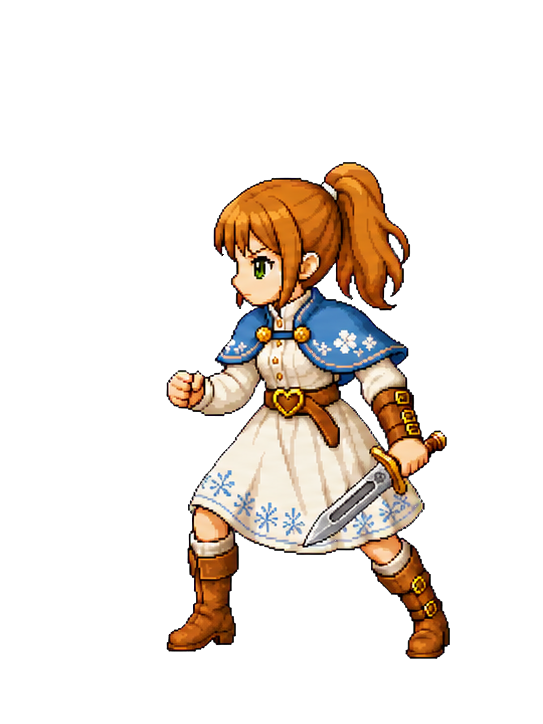
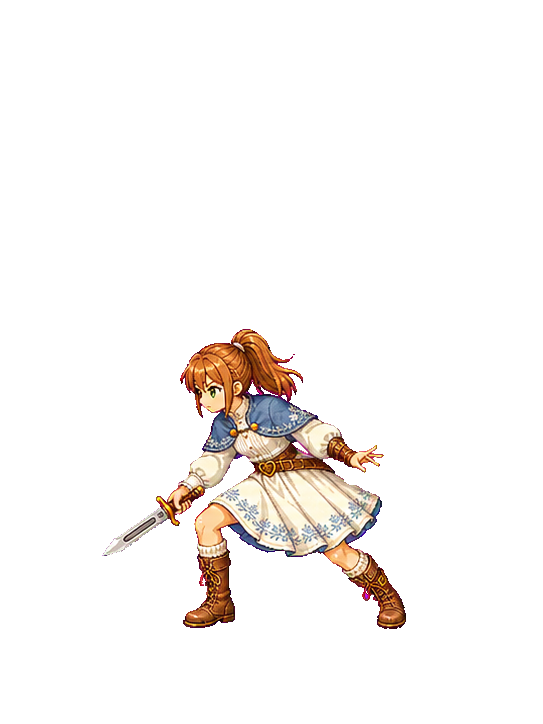
art: 整合 Marin 3.5 頭身攻擊動畫

Changed region(s): [[0.2063, 0.2127, 0.825, 0.9116], [0.1768, 0.7597, 0.2063, 0.7901]]

diff --git a/TASKS/17_戰鬥角色美術統一.md b/TASKS/17_戰鬥角色美術統一.md
@@ -1,6 +1,6 @@
 # 戰鬥角色 3.5 頭身統一與動畫補齊
 
-- Task 版本: v1.23
+- Task 版本: v1.24
 - 對應規則來源快照: N/A（John 2026-08-09 戰鬥角色美術方向定案；不對應 `build_cq2.py` 規則）
 - 狀態: 實作中（規格與產線文件已定案；角色重製、補幀與 runtime 整合待執行）
 - 規格來源: [`docs/design/戰鬥立繪規格.md`](../docs/design/戰鬥立繪規格.md)
@@ -33,7 +33,7 @@
 | 莉莉 `lily` | 162 cm | 3.5 頭身基準 | Seed、weapon、idle 4、hurt、cast | **death 1、attack 約 5**；runtime 依身高換算＋全隊 lineup 複驗 |
 | 潔絲 `jess` | 167 cm | 3.5 頭身基準 | Seed、weapon、idle 4（`0→2→3→2`） | **hurt 1、cast 1、death 1、attack 約 5**；全隊 lineup 複驗 |
 | 路德 `ludo` | 165 cm | 3.5 頭身 Seed 已驗收 | Menu Art、weapon reference、雙手持劍 Seed、idle 4（`0→1→2→1`）、hurt 1、cast 1、death 1 | **attack 重做**；全隊 lineup 複驗 |
-| 瑪琳 `marin` | 158 cm | 3.5 頭身 Seed 已驗收 | Menu Art、weapon reference、左手短刀 Seed、idle 4、hurt、cast、death | **attack 重做**；runtime 換圖與全隊 lineup 複驗 |
+| 瑪琳 `marin` | 158 cm | 3.5 頭身 Seed 已驗收 | Menu Art、weapon reference、左手短刀 Seed、idle 4、hurt、cast、death、attack 5 | hurt／cast／death runtime 換圖與全隊 lineup 複驗 |
 
 > `cast` 目前尚未接入 runtime，但仍屬角色完整交付集；整合時可先放入素材並保留未使用狀態。
 
@@ -48,7 +48,7 @@
 ### Phase 2：補齊與重製動作
 
 - [ ] **P2-1 路德全套**：idle 4 → hurt 1 → cast 1 → death 1 → attack 約 5；2026-08-12 `idle / ready_guard` 採 John 核可的分段 key pose fallback，正式循環 `0 → 1 → 2 → 1`，G4～G6 通過後已於 G7 以共用 0.5× Nearest 正規化至 543×724 並整合 `hero_ludo_idle_0..3.png`。2026-08-13 `hurt / recoil_guard` 採候選 A 劍身拉直修正版，G3／G5 通過後以相同 0.5× Nearest 對齊 Idle 的 bottom-center 與腳底線，整合為 `hero_ludo_hurt.png`。同日 `cast / two_hand_focus` 採完整左側身、閉眼、雙手伸直發射姿勢與長劍完整收鞘版本，G3／G5 通過後以相同尺度與錨點新增 `hero_ludo_cast.png`；目前 Cast 尚未接線。`death / fall_forward` 採五體投地趴伏版本，G3／G5 通過後以 0.5× Nearest 保持尺度，橫向中心與最低點對齊 Runtime 共同中心／地面線並整合為 `hero_ludo_death.png`。依 John 指示，Godot import／測試延後至 Attack 整合後一併執行。attack 尚待重做。
-- [ ] **P2-2 瑪琳全套**：idle 4 → hurt 1 → cast 1 → death 1 → attack 約 5；2026-08-11 `idle / calm_ready` 採 `0 → 1 → 2 → 1` 分段 key pose，John 手動去背的三張 `finetune` 已通過 G6；G7 已將 543×724 Alpha 四幀整合為 `hero_marin_idle_0..3.png`，腳底 `y=628`。2026-08-13 `hurt / recoil_guard` G3 採候選 1，G5 Alpha 已通過驗收（髮梢紫紅 spill 已修正且未改變 Alpha 輪廓）；同日 `cast / offhand_rear_cast` 採三分之二背面候選 1 的刀身軸線修正版，G3／G5 已通過，二值 Alpha 只重著色 195 個明顯洋紅污染像素。`death / fall_forward` 採側趴倒地候選 1，頭、軀幹與腿確實落地，短刀完整掉落於左手附近；G3／G5 已通過，Alpha 保持二值並清除輪廓洋紅污染。hurt／cast／death 尚待瑪琳全套完成後統一進入 G7；目前只剩 attack 待重做。
+- [ ] **P2-2 瑪琳全套**：idle 4 → hurt 1 → cast 1 → death 1 → attack 5；2026-08-11 `idle / calm_ready` 採 `0 → 1 → 2 → 1` 分段 key pose，John 手動去背的三張 `finetune` 已通過 G6；G7 已將 543×724 Alpha 四幀整合為 `hero_marin_idle_0..3.png`，腳底 `y=628`。2026-08-13 `hurt / recoil_guard` G3 採候選 1，G5 Alpha 已通過驗收（髮梢紫紅 spill 已修正且未改變 Alpha 輪廓）；同日 `cast / offhand_rear_cast` 採三分之二背面候選 1 的刀身軸線修正版，G3／G5 已通過，二值 Alpha 只重著色 195 個明顯洋紅污染像素。`death / fall_forward` 採側趴倒地候選 1，頭、軀幹與腿確實落地，短刀完整掉落於左手附近；G3／G5 已通過，Alpha 保持二值並清除輪廓洋紅污染。`attack / dagger_thrust` 五幀於 2026-08-13 通過 G4～G6：序列為起手 → 下沉 → 深度蓄力 → 向左突刺 → 收招，非持刀手以拇指＋四指修正；Alpha 為二值且清除洋紅背景孔洞／外緣污染。G7 採畫面右側左腳鞋底最下方三列作固定錨點，五幀置入共同 543×724 cell、錨點 `(390,628)`，完整保留突刺刀尖並整合 `hero_marin_attack_0..4.png`。hurt／cast／death 尚待統一進入 G7，因此 P2-2 暫不整項勾選。
 - [ ] **P2-3 莉莉補齊**：death 1 → attack 約 5。
 - [ ] **P2-4 潔絲補齊**：hurt 1 → cast 1 → death 1 → attack 約 5。
 
@@ -57,7 +57,7 @@
 ### Phase 3：runtime 正規化與全隊驗收
 
 - [ ] **P3-1 身高正規化**：以潔絲 `167 cm = 250px` 為基準，按 `250 × cm ÷ 167` 計算每位角色 idle 主體可見高度；runtime 程式調整由 MOD-E owner 執行或協調。
-- [ ] **P3-2 同角色狀態校正**：attack／hurt／cast 對齊該角色 idle 主體高度與腳底線；同一 strip 共用一個倍率。
+- [ ] **P3-2 同角色狀態校正**：attack／hurt／cast 對齊該角色 idle 主體高度與腳底線；同一 strip 共用一個倍率。2026-08-13 runtime 已改為 attack 全段共用首幀垂直貼底補正，保留素材內烘焙的共同腳點；其餘角色與狀態仍待全隊複驗。
 - [ ] **P3-3 五人靜態 lineup**：同地面線、實際身高、同畫面並列檢查比例、排列、武器與視覺密度。
 - [ ] **P3-4 五人 Idle GIF**：同時播放，檢查呼吸幅度、節奏、雙腳錨點、武器完整與循環。
 - [ ] **P3-5 John 最終核可**：靜態 lineup 與 GIF 都通過後，才進入 G7。

diff --git a/docs/pipeline/battle_art/prompts/descriptions/marin.md b/docs/pipeline/battle_art/prompts/descriptions/marin.md
@@ -4,13 +4,14 @@
 - ref: `godot-project/assets/ui/menuart_marin.png`
 - seed ref: `assets-source/role/main/marin/battle_seed_alpha.png`（2026-08-11 已驗收的 3.5 頭身、左手持短刀候選 3；產所有新動作時必須實際附圖）
 - weapon ref: `assets-source/role/main/marin/battle_weapon_marin_alpha.png`（短刀外觀錨點；產 seed、動作首幀與 strip 時必須實際附圖）
-- 比例狀態: **Seed 已驗收**；158 cm、約 3.5 頭身，已通過 G1／G2 與五人等主體高度／設定身高 lineup。舊 idle／hurt／cast／death／attack 仍屬二頭身失效素材，必須全套重做
+- 比例狀態: **Seed 已驗收**；158 cm、約 3.5 頭身，已通過 G1／G2 與五人等主體高度／設定身高 lineup。idle／attack 已完成 G7；hurt／cast／death 已通過 G5、待 G7
 - idle: `calm_ready`；G3 首幀 `assets-source/role/main/marin/battle_idle_raw.png`（2026-08-11 已驗收候選 3；低重心沉穩備戰、左手短刀低位朝畫面左側、右手靠近腰帶、雙腳完整接地）；第一批 G4～G6 因邊緣污染與相位方向退回，重做改用青色鍵色與 `0 → 1 → 2 → 1` 分段 key pose。Frame 2 與固定端點插值 Frame 1 已驗收，最終採 John 手動去背的三張 `*_finetune.png`；G6 通過，G7 已整合 `battle_idle_0..3.png` 與 runtime `hero_marin_idle_0..3.png`（543×724、腳底 `y=628`）
 - hurt: `recoil_guard`；2026-08-13 G3 採候選 1：攻擊由畫面左側命中，上身向右微後仰，右前臂護住胸口，左手短刀橫向護於腰腹前，雙腳完整接地且仍維持戰鬥狀態。正式鍵色來源為 `battle_hurt_raw.png`；G5 `battle_hurt_alpha.png` 已通過驗收，髮梢紫紅 spill 已在不改變 Alpha 輪廓的前提下修正。
 - cast: `offhand_rear_cast`；2026-08-13 G3 採背面候選 1 的刀身軸線修正版：三分之二背面、披肩朝鏡頭，頭部越過左肩望向畫面左側，戴護具的右手向敵方伸出施法，左手在後腰側持短刀；不含魔法特效。正式鍵色來源為 `battle_cast_raw.png`；G5 `battle_cast_alpha.png` 已通過驗收，採二值 Alpha 並只重著色 195 個明顯洋紅污染像素，未改變人物、武器輪廓或深色外框。
 - death: `fall_forward`；2026-08-13 G3 採側趴倒地候選 1：頭、肩、軀幹、髖部與雙腿均落於同一地面，雙臂未支撐上身，左手短刀完整掉落於原持手附近。正式鍵色來源為 `battle_death_raw.png`；G5 `battle_death_alpha.png` 已通過驗收，採二值 Alpha，只移除背景及修正輪廓鍵色污染，人物、衣服、飾品與短刀皆保持完全不透明。
+- attack: `dagger_thrust`；2026-08-13 五幀依序為起手 → 下沉 → 深度蓄力 → 向畫面左側突刺 → 收招。G4 修正第 0／1／3／4 幀非持刀手為拇指＋四指，G5 以二值 Alpha 清除洋紅背景、孔洞與外緣污染，G6 動態預覽通過。G7 五幀共用 543×724 cell，以畫面右側左腳鞋底最下方三列的接地中心鎖定 `(390,628)`；不縮放、不重新取樣，突刺刀尖保留安全邊距。正式來源為 `battle_attack_0..4.png`、`battle_attack_strip_{raw,alpha}.png`、`battle_attack_review_montage.png`、`battle_attack_review.gif`，runtime 為 `hero_marin_attack_0..4.png`。
 - 武器規格: 左手主手；短刀總長約角色完整身高的 1/3，刀身約為刀柄四倍長；銀灰寬刀身、長形深色血槽、金色護手、深棕纏繩刀柄與金色柄尾。可整體縮放以使左手完整握住刀柄，但不得改變部件比例。
-- 最後一版: 2026-08-13 的 3.5 頭身 Seed、`idle / calm_ready`、`hurt / recoil_guard`、`cast / offhand_rear_cast` 與 `death / fall_forward` 已驗收；Idle 已完成 G7，hurt／cast／death 已通過 G5、待瑪琳全套完成後統一進入 G7，目前只剩 attack。Idle 正式來源為 John 手動去背的三張 `finetune`，四幀循環 `0 → 1 → 2 → 1`、每幀 0.18 秒、543×724、腳底 `y=628`；正式 PNG 保留手動 Alpha，GIF 僅因格式限制採二值透明。舊二頭身 idle／hurt／cast／death／attack 僅保留作為動作方向與錯誤排查參考。
+- 最後一版: 2026-08-13 的 3.5 頭身 Seed、`idle / calm_ready`、`hurt / recoil_guard`、`cast / offhand_rear_cast`、`death / fall_forward` 與 `attack / dagger_thrust` 均已驗收；Idle／Attack 已完成 G7，hurt／cast／death 已通過 G5、待統一進入 G7。Idle 正式來源為 John 手動去背的三張 `finetune`，四幀循環 `0 → 1 → 2 → 1`、每幀 0.18 秒、543×724、腳底 `y=628`；Attack 為五幀、543×724、左腳鞋底錨點 `(390,628)`。正式 PNG 採二值 Alpha，GIF 同為二值透明。舊二頭身素材僅保留作為動作方向與錯誤排查參考。
 
 ```
 14 歲少女，紅褐色高馬尾＋齊瀏海、綠色眼睛、溫和冷靜的表情；白色襯衫洋裝外罩藍色繡白花短披肩（雙金釦），腰間棕色皮束帶（心形釦扣），右手戴棕色皮護具，下身裙裝配棕色皮靴；身手靈巧、冷靜務實的氣質。`attack / dagger_thrust` 為左手主手的五幀序列：預備 → 回復預備 → 低重心蓄力（身體下沉、後移，左肘約 90°、短刀刀尖朝上）→ 背身軀幹的左手向畫面左側突刺 → 收刀回轉。臉與綠色眼睛全程維持朝畫面左側；軀幹背身時僅轉披風與身體，頭部不轉向。雙腳維持 bottom-center root-lock。短刀外觀嚴格依 weapon reference：銀灰寬刀身、長形深色血槽、金色護手、深棕纏繩刀柄與金色柄尾；不得改變部件相對比例；左手拇指與四指完整環握刀柄，手腕與刀柄同軸。

diff --git a/CREDITS_素材授權.md b/CREDITS_素材授權.md
@@ -105,7 +105,8 @@ LPC 角色產生器圖層合成（CC-BY-SA/GPL），圖層配方參考 overworld
 - `assets/battle/hero_*.png`：除下列明列的 AI idle 例外外，由 LPC 合成角色幀放大裁切（沿用 LPC CC-BY-SA/GPL 授權），
   武器圖層取自 LPC weapon walk（longsword/dagger/saber，CC-BY-SA/GPL）。
   - **戰鬥動畫命名改制（2026-07-27，作法B）**：runtime 改為每角一套 `hero_<id>_idle_0..3` ＋單一 `hero_<id>_attack_0..N`（不再分 slash/thrust/spellcast；見 `battle_state_machine.gd` `_load_frames`／`_load_anim_frames`）。舊 `hero_ludo_f/slash/thrust/spellcast`、`hero_marin_f0-3`、`hero_alan_f0-3` 已改名或移除。
-  - `hero_marin_idle_0..3`（2026-08-11 更新）：Marin 3.5 頭身 `idle / calm_ready` 四幀循環，由 OpenAI 內建 imagegen 依已驗收 Seed 與短刀 reference 生成 Frame 0／2，Frame 1 以核可端點插值；正式循環為 `0 → 1 → 2 → 1`。John 手動完成三張 Alpha 邊緣微調後驗收，正式幀以 0.5× Nearest 正規化至 543×724、腳底 `y=628`。來源保存於 `assets-source/role/main/marin/battle_idle_0..3.png`、`battle_idle_strip_alpha.png` 與 `battle_idle_review.gif`；提示詞作者 John／協作 Agent。`hero_marin_attack_0-4` 仍為 2026-07-30 的舊二頭身素材，待 P2-2 重做。
+  - `hero_marin_idle_0..3`（2026-08-11 更新）：Marin 3.5 頭身 `idle / calm_ready` 四幀循環，由 OpenAI 內建 imagegen 依已驗收 Seed 與短刀 reference 生成 Frame 0／2，Frame 1 以核可端點插值；正式循環為 `0 → 1 → 2 → 1`。John 手動完成三張 Alpha 邊緣微調後驗收，正式幀以 0.5× Nearest 正規化至 543×724、腳底 `y=628`。來源保存於 `assets-source/role/main/marin/battle_idle_0..3.png`、`battle_idle_strip_alpha.png` 與 `battle_idle_review.gif`；提示詞作者 John／協作 Agent。
+  - `hero_marin_attack_0..4`（2026-08-13 更新）：Marin 3.5 頭身 `attack / dagger_thrust` 五幀，由 OpenAI 內建 imagegen 依已驗收 Seed、Idle 與短刀 reference 生成；John 驗收起手、下沉、深度蓄力、向畫面左側突刺與收招的動態效果。第 0／1／3／4 幀非持刀手另修正為拇指＋四指；去背採完全透明／完全不透明二值 Alpha，並清除洋紅背景孔洞及外緣污染。正式五幀不縮放、不重新取樣，統一置入 543×724 cell，以畫面右側左腳鞋底最下方三列的接地中心固定於 `(390,628)`，突刺刀尖保留完整。來源保存於 `assets-source/role/main/marin/battle_attack_0..4.png`、`battle_attack_strip_{raw,alpha}.png`、`battle_attack_review_montage.png` 與 `battle_attack_review.gif`；替換前 runtime 五幀封存於 `assets-source/role/main/marin/unofficial/attack/legacy_2026_07/runtime_before_3_5_head/`。提示詞作者 John／協作 Agent。
   - `hero_ludo_idle_0..3`（2026-08-12 更新）：Ludo 3.5 頭身雙手持劍 `idle / ready_guard` 四幀循環，由 OpenAI 內建 imagegen 依已驗收 Seed、長劍 reference 與 Idle 首幀生成 Frame 0／2；Frame 1 使用固定端點 motion-compensated midpoint，正式循環為 `0 → 1 → 2 → 1`。G3～G7 經 John 分階段驗收，正式幀以共用 0.5× Nearest 正規化至 543×724、角色可見中心約 `x=268`、可見框下界 `y=659`。來源保存於 `assets-source/role/main/ludo/battle_idle_0..3.png`、`battle_idle_strip_{raw,alpha}.png`、`battle_idle_review_montage.png` 與 `battle_idle_review.gif`；替換前 runtime 四幀封存於 `assets-source/role/main/ludo/unofficial/idle/runtime_before_3_5_head/`。提示詞作者 John／協作 Agent。`hero_ludo_attack_0-4` 仍為 2026-07-30 的舊二頭身素材，待 P2-1 重做。
   - `hero_ludo_hurt.png`（2026-08-13 更新）：Ludo 3.5 頭身雙手持劍 `hurt / recoil_guard` 單幀，由 OpenAI 內建 imagegen 依已驗收 Seed、長劍 reference 與 Idle 首幀生成；John 選定候選 A，並依標註局部重繪拉直劍身。受擊來自畫面左側，上身向右短促後仰，雙腳接地且雙手持續握住同一劍柄。G3／G5／G7 經 John 分階段驗收，來源保存於 `assets-source/role/main/ludo/battle_hurt_{raw,alpha}.png`；正式圖以 0.5× Nearest 正規化至 543×724、可見中心 `x=267`、腳底最後可見像素 `y=658`，對齊同角色 Idle。替換前 runtime 封存於 `assets-source/role/main/ludo/unofficial/hurt/runtime_before_3_5_head/`。提示詞作者 John／協作 Agent；依 John 指示，本次未執行 Godot import／測試。
   - `hero_ludo_cast.png`（2026-08-13 新增）：Ludo 3.5 頭身 `cast / two_hand_focus` 單幀，由 OpenAI 內建 imagegen 依已驗收 Seed、長劍 reference 與 Idle 首幀生成；John 驗收完整左側身、閉眼集中、雙手向敵方伸直的發射姿勢，以及完整收入右腰劍鞘並延伸至小腿肚的長劍。此動作不含任何魔法特效，且為雙手持劍常規的指定例外。G3／G5／G7 經 John 分階段驗收，來源保存於 `assets-source/role/main/ludo/battle_cast_{raw,alpha}.png`；正式圖以 0.5× Nearest 正規化至 543×724、可見中心 `x=267`、腳底最後可見像素 `y=658`，對齊同角色 Idle。此前 runtime 無同名 Cast；Cast 目前尚未接入戰鬥程式。提示詞作者 John／協作 Agent；Godot import／測試依 John 指示延後至路德剩餘動作整合後一併執行。

diff --git a/docs/pipeline/battle_art/workflow.md b/docs/pipeline/battle_art/workflow.md
@@ -191,7 +191,7 @@ John 確認靜態圖後，才進入下一節處理去背與對齊。
 
 - 敵人幀從 0 連號（載入器掃連號循環，不留舊 `_2/_3`）。
 - 像素圖 `.import` 用 **Nearest**。
-- 程式引用：`battle_state_machine.gd`（`HERO_SLOTS` 已有站位）。**idle／attack 已接（2026-07-27 作法B）**：`_load_frames` 讀 `hero_<id>_idle_0..3`、`_load_anim_frames` 讀單一 `hero_<id>_attack_0..N`（所有普攻/技能共用此 attack 動畫，不再分 slash/thrust/spellcast）。**hurt／death 已接（2026-07-27）**：受傷時換 `hero_<id>_hurt.png`＋震動、HP 歸零換 `hero_<id>_death.png`（見 `battle_state_machine.gd` 我方 sprite 貼圖優先序）。**cast 暫不接**（尚無元素魔法技能）。
+- 程式引用：`battle_state_machine.gd`（`HERO_SLOTS` 已有站位）。**idle／attack 已接（2026-07-27 作法B）**：`_load_frames` 讀 `hero_<id>_idle_0..3`、`_load_anim_frames` 讀單一 `hero_<id>_attack_0..N`（所有普攻/技能共用此 attack 動畫，不再分 slash/thrust/spellcast）。Attack strip 在素材階段必須把共同腳點烘焙於同一 cell 座標；runtime 整段共用首幀的垂直貼底補正，不得依各幀最低可見像素重新推動，避免跨步／蹲低幀破壞核可錨點。**hurt／death 已接（2026-07-27）**：受傷時換 `hero_<id>_hurt.png`＋震動、HP 歸零換 `hero_<id>_death.png`（見 `battle_state_machine.gd` 我方 sprite 貼圖優先序）。**cast 暫不接**（尚無元素魔法技能）。
 - 更新 `CREDITS_素材授權.md`；`godot --headless --check-only` 過。
 
 建立 Resource。
